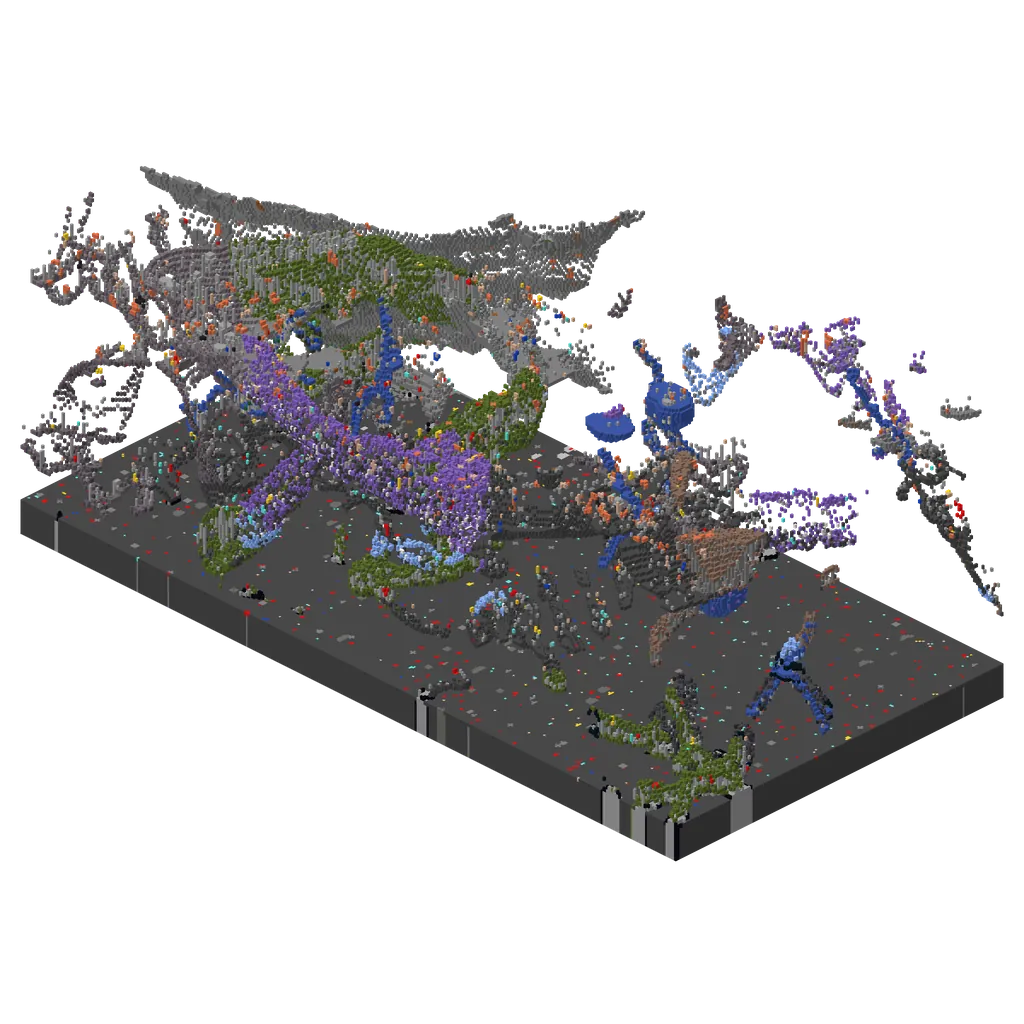
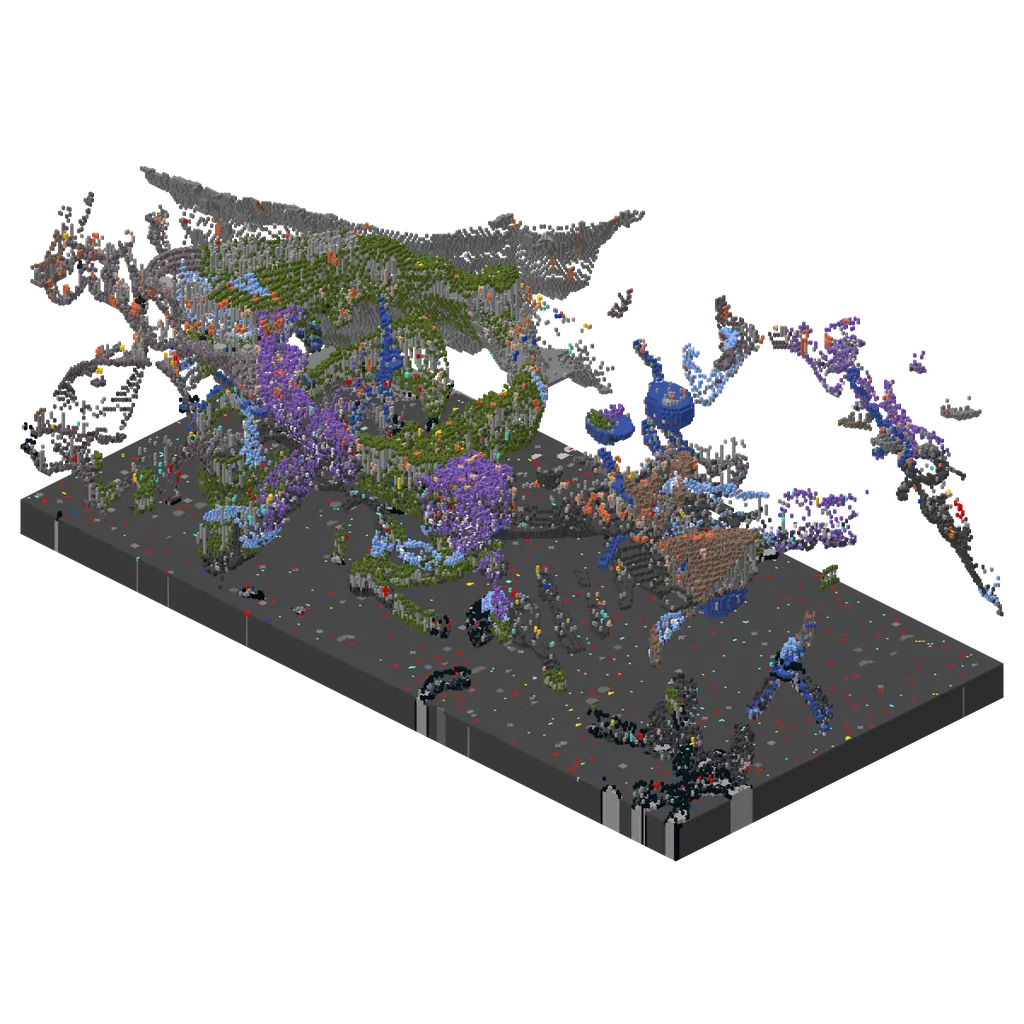
fix(caves): More Mix goes past the default mix
More Mix was every theme at 0.76 of its default, about 70% themed, just
under All Mix (today's default, about 77%), so the two looked alike. It
is now every theme at 1.8 of its default: about 89% themed on the same
three --cave-zone-map areas (upper/deep 86.9/90.8, 86.5/90.1,
86.5/91.1). No theme takes over (the largest, ice in the upper band and
volcanic in the deep one, hold about 30%), and the depth and terrain
gates do not depend on the amounts. 180% stays inside the rows' 0-200%.

The styles now run Vanilla, More Vanilla, All Mix, More Mix in the CLI
help and the window; the More Mix pictures are rendered again.

diff --git a/src/gui/index.html b/src/gui/index.html
@@ -1730,7 +1730,7 @@
                       <span class="setting-text">
                         <span class="setting-heading">
                           <span data-localize="cave_style">Cave Style</span>
-                          <span class="tooltip-icon" data-tooltip="Vanilla: plain caves only. More Vanilla: about 30% of the caves themed. More Mix: about 70%. All Mix: every cave biome at its default amount. The 2D picture is the biome layout, upper caves above deep caves; 3D shows the caves with the rock cut away.">?</span>
+                          <span class="tooltip-icon" data-tooltip="Vanilla: plain caves only. More Vanilla: about 30% of the caves themed. All Mix: every cave biome at its default amount, about 77%. More Mix: every biome past its default, about 89%. The 2D picture is the biome layout, upper caves above deep caves; 3D shows the caves with the rock cut away.">?</span>
                         </span>
                         <span class="setting-desc" data-localize="cave_style_desc">How much of the underground the cave biomes take. Requires Caves.</span>
                       </span>
@@ -1738,14 +1738,14 @@
                     <select id="cave-style-select" name="cave-style-select" class="visually-hidden" tabindex="-1" aria-hidden="true">
                         <option value="vanilla" data-localize="cave_style_vanilla">Vanilla</option>
                         <option value="more-vanilla" data-localize="cave_style_more_vanilla">More Vanilla</option>
-                        <option value="more-mix" data-localize="cave_style_more_mix">More Mix</option>
                         <option value="all-mix" selected data-localize="cave_style_all_mix">All Mix</option>
+                        <option value="more-mix" data-localize="cave_style_more_mix">More Mix</option>
                       </select>
                     <div class="preview-options" data-select="cave-style-select">
                       <button type="button" class="segment" data-value="vanilla" data-localize="cave_style_vanilla">Vanilla</button>
                       <button type="button" class="segment" data-value="more-vanilla" data-localize="cave_style_more_vanilla">More Vanilla</button>
-                      <button type="button" class="segment" data-value="more-mix" data-localize="cave_style_more_mix">More Mix</button>
                       <button type="button" class="segment" data-value="all-mix" data-localize="cave_style_all_mix">All Mix</button>
+                      <button type="button" class="segment" data-value="more-mix" data-localize="cave_style_more_mix">More Mix</button>
                     </div>
                   </div>
                   <div class="settings-row setting-tile has-options">

diff --git a/src/gui/js/main.js b/src/gui/js/main.js
@@ -2282,7 +2282,7 @@ const FIELD_PRESETS = {
 // Cave Biomes: each theme's percent of its default amount. A style is one
 // amount for every theme (CaveStyle::amount in src/caves/mod.rs).
 const CAVE_THEMES = ['lush', 'dripstone', 'deepdark', 'mushroom', 'ice', 'amethyst', 'volcanic', 'coral'];
-const CAVE_STYLES = { vanilla: 0, 'more-vanilla': 18, 'more-mix': 76, 'all-mix': 100 };
+const CAVE_STYLES = { vanilla: 0, 'more-vanilla': 18, 'all-mix': 100, 'more-mix': 180 };
 // `layout`: the select whose value is the preset (else the Field Layout).
 // `all`: every part is sent, 0 included, as --cave-biomes keeps the style's
 // amount for a part left out; `max` is a part's top.

diff --git a/src/caves/mod.rs b/src/caves/mod.rs
@@ -83,10 +83,11 @@ const SEED: i64 = 0xCA7E_CA7E;
 /// Vanilla's world floor; every depth constant in the cave passes is written against it.
 pub(crate) const VANILLA_FLOOR: i32 = -64;
 /// The theme amounts of More Vanilla and More Mix: every theme at this share of its default.
-/// Calibrated on `--cave-zone-map` (three areas and seeds, upper and deep band averaged) to
-/// about 30% and 70% themed; All Mix, every theme at its default, measures about 77%.
+/// Calibrated on `--cave-zone-map` (three areas and seeds, upper and deep band averaged): More
+/// Vanilla is about 30% themed, All Mix (every theme at its default) about 77%, More Mix about
+/// 89%. More Mix stays under the 200% top of `--cave-biomes`, so the window's rows reach it.
 const MORE_VANILLA: f64 = 0.18;
-const MORE_MIX: f64 = 0.76;
+const MORE_MIX: f64 = 1.8;
 /// Carve only this many blocks below the column's surface (the roof seal — keeps caves from breaching
 /// the surface / exposing grass).
 const TOP_GATE: i32 = 6;
@@ -161,11 +162,11 @@ pub enum CaveStyle {
     Vanilla,
     /// About 70% plain caves, 30% themed.
     MoreVanilla,
-    /// About 30% plain caves, 70% themed.
-    MoreMix,
-    /// Every theme at its default amount.
+    /// Every theme at its default amount, about 77% themed.
     #[default]
     AllMix,
+    /// Every theme past its default, about 89% themed.
+    MoreMix,
 }
 
 impl CaveStyle {
@@ -843,6 +844,9 @@ mod tests {
             amounts(&["--cave-style", "more-mix"]),
             BiomeAmounts::uniform(MORE_MIX)
         );
+        // The window's rows (a --cave-biomes list, 0-200%) reach every style's amount.
+        let top = BiomeAmounts::parse(&format!("lush={}", MORE_MIX * 100.0)).unwrap();
+        assert_eq!(top.lush, MORE_MIX);
         let mixed = amounts(&["--cave-style", "vanilla", "--cave-biomes", "lush=150"]);
         assert_eq!(
             mixed,

diff --git a/src/args.rs b/src/args.rs
@@ -146,8 +146,9 @@ pub struct Args {
     pub cave_biomes: Option<String>,
 
     /// How much of the underground the themed cave biomes take: vanilla (plain caves only),
-    /// more-vanilla (about 30% themed), more-mix (about 70% themed) or all-mix (every theme at
-    /// its default amount, the default). --cave-biomes amounts override the style's per theme.
+    /// more-vanilla (about 30% themed), all-mix (every theme at its default amount, about 77%
+    /// themed, the default) or more-mix (about 89% themed). --cave-biomes amounts override the
+    /// style's per theme.
     #[arg(long = "cave-style", value_enum)]
     pub cave_style: Option<crate::caves::CaveStyle>,
 
